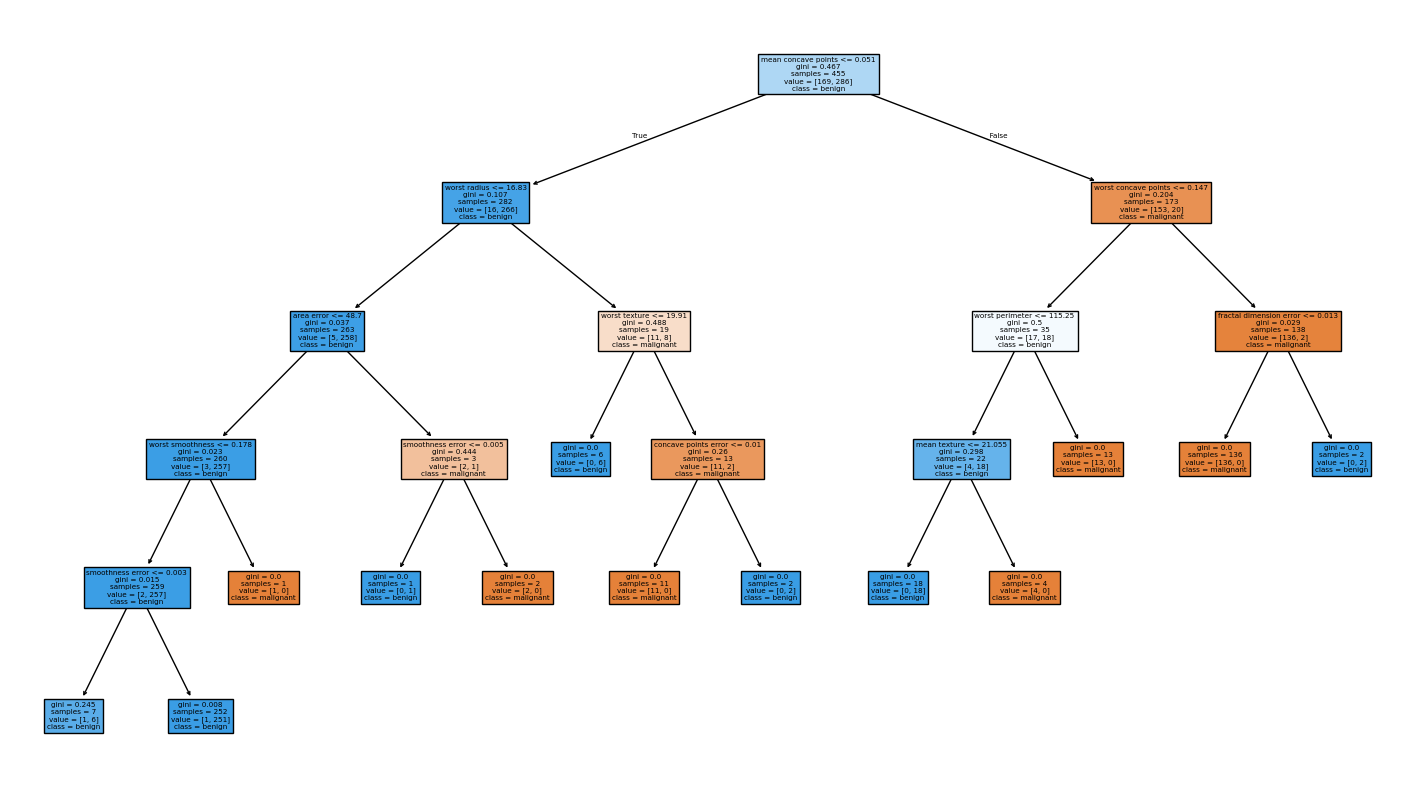
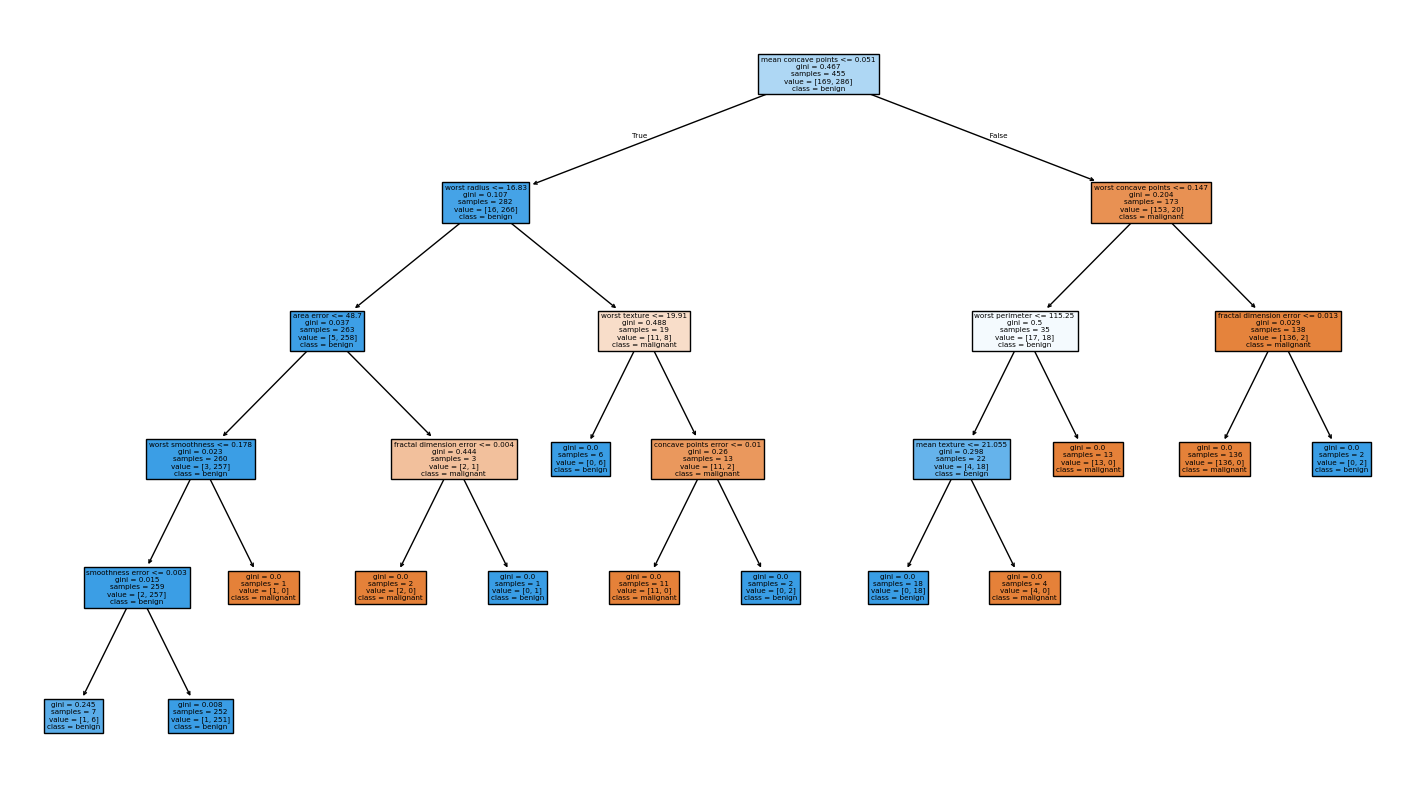
Add neural network from scratch

Changed region(s): [[0.2488, 0.5468, 0.3731, 0.6076], [0.342, 0.6987, 0.4042, 0.7899], [0.2488, 0.6987, 0.311, 0.7899]]

diff --git a/notebooks/neural_network_demo.py b/notebooks/neural_network_demo.py
@@ -1,0 +1,87 @@
+import sys
+import os
+
+sys.path.append(
+    os.path.dirname(
+        os.path.dirname(
+            os.path.abspath(__file__)
+        )
+    )
+)
+
+import matplotlib.pyplot as plt
+
+from sklearn.datasets import load_breast_cancer
+from sklearn.model_selection import train_test_split
+from sklearn.preprocessing import StandardScaler
+from sklearn.metrics import accuracy_score
+from sklearn.neural_network import MLPClassifier
+
+from models.neural_network import NeuralNetwork
+
+
+data = load_breast_cancer()
+
+X = data.data
+y = data.target
+
+X_train, X_test, y_train, y_test = train_test_split(
+    X,
+    y,
+    test_size=0.2,
+    random_state=42
+)
+
+scaler = StandardScaler()
+
+X_train = scaler.fit_transform(X_train)
+X_test = scaler.transform(X_test)
+
+model = NeuralNetwork(
+    input_size=X_train.shape[1],
+    hidden_size=16,
+    output_size=1,
+    lr=0.1,
+    epochs=3000
+)
+
+model.fit(X_train, y_train)
+
+preds = model.predict(X_test)
+
+print(
+    "My Neural Network Accuracy:",
+    accuracy_score(y_test, preds)
+)
+
+sk_model = MLPClassifier(
+    hidden_layer_sizes=(16,),
+    max_iter=3000,
+    random_state=42
+)
+
+sk_model.fit(X_train, y_train)
+
+sk_preds = sk_model.predict(X_test)
+
+print(
+    "Sklearn MLP Accuracy:",
+    accuracy_score(y_test, sk_preds)
+)
+
+plt.figure(figsize=(8, 6))
+
+plt.plot(model.losses)
+
+plt.title("Neural Network Loss Curve")
+
+plt.xlabel("Iterations")
+
+plt.ylabel("Binary Cross Entropy")
+
+plt.savefig(
+    "images/neural_network_loss.png",
+    bbox_inches="tight"
+)
+
+plt.close()

diff --git a/models/neural_network.py b/models/neural_network.py
@@ -1,0 +1,60 @@
+import numpy as np
+
+
+class NeuralNetwork:
+
+    def __init__(self, input_size, hidden_size, output_size, lr=0.01, epochs=1000):
+        self.lr = lr
+        self.epochs = epochs
+        self.losses = []
+
+        self.W1 = np.random.randn(input_size, hidden_size) * 0.01
+        self.b1 = np.zeros((1, hidden_size))
+
+        self.W2 = np.random.randn(hidden_size, output_size) * 0.01
+        self.b2 = np.zeros((1, output_size))
+
+    def sigmoid(self, z):
+        return 1 / (1 + np.exp(-z))
+
+    def sigmoid_derivative(self, a):
+        return a * (1 - a)
+
+    def fit(self, X, y):
+        y = y.reshape(-1, 1)
+        n_samples = X.shape[0]
+
+        for _ in range(self.epochs):
+            Z1 = np.dot(X, self.W1) + self.b1
+            A1 = self.sigmoid(Z1)
+
+            Z2 = np.dot(A1, self.W2) + self.b2
+            A2 = self.sigmoid(Z2)
+
+            loss = -np.mean(
+                y * np.log(A2 + 1e-9)
+                + (1 - y) * np.log(1 - A2 + 1e-9)
+            )
+            self.losses.append(loss)
+
+            dZ2 = A2 - y
+            dW2 = np.dot(A1.T, dZ2) / n_samples
+            db2 = np.sum(dZ2, axis=0, keepdims=True) / n_samples
+
+            dA1 = np.dot(dZ2, self.W2.T)
+            dZ1 = dA1 * self.sigmoid_derivative(A1)
+            dW1 = np.dot(X.T, dZ1) / n_samples
+            db1 = np.sum(dZ1, axis=0, keepdims=True) / n_samples
+
+            self.W2 -= self.lr * dW2
+            self.b2 -= self.lr * db2
+            self.W1 -= self.lr * dW1
+            self.b1 -= self.lr * db1
+
+    def predict_proba(self, X):
+        A1 = self.sigmoid(np.dot(X, self.W1) + self.b1)
+        A2 = self.sigmoid(np.dot(A1, self.W2) + self.b2)
+        return A2
+
+    def predict(self, X):
+        return (self.predict_proba(X) >= 0.5).astype(int).flatten()